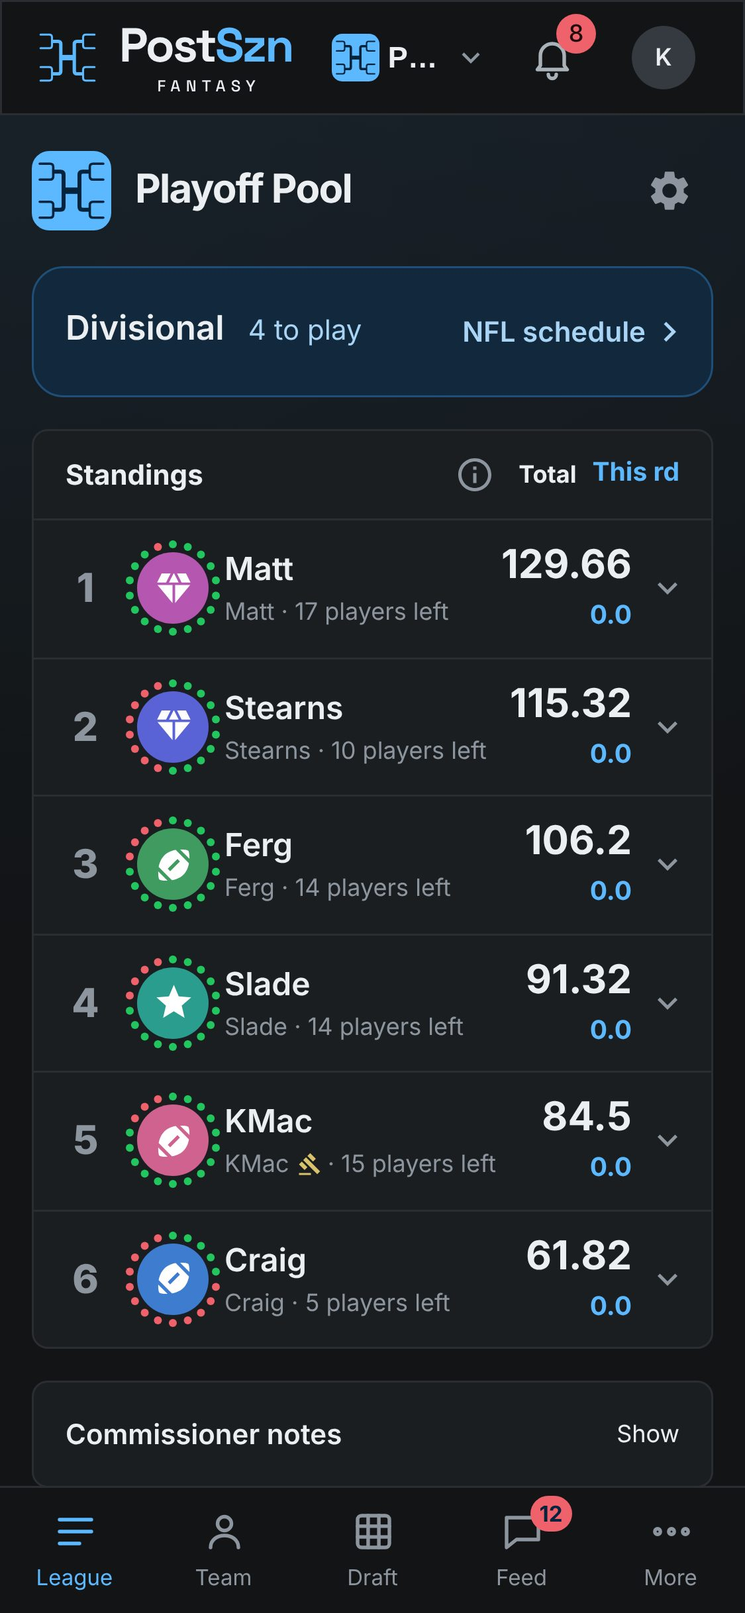
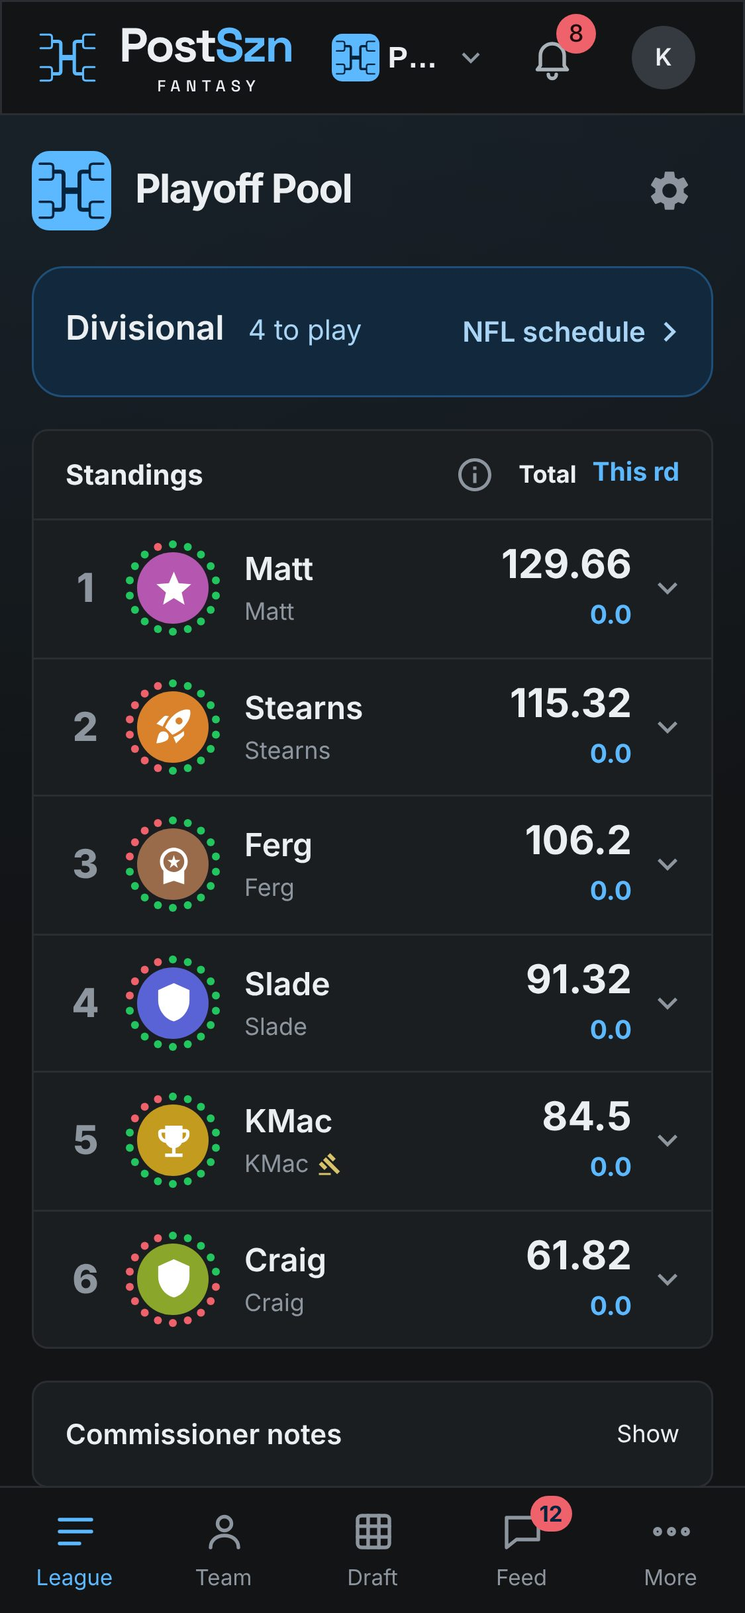
Space the ringed team picture off the name; drop the N players left words (#604) (#605)
Closes #604

Claude-Session: https://claude.ai/code/session_01Joaa4EG5M5w3aYu21ccTuD

diff --git a/frontend/src/components/league/Standings.tsx b/frontend/src/components/league/Standings.tsx
@@ -27,18 +27,14 @@ import { roundCard } from "../share/shareCards";
 import StatusBreakdownTrigger from "../team/StatusBreakdown";
 import StatusRing from "../team/StatusRing";
 import RankCell from "./RankCell";
-import { formatPoints, isOpenSpot, ROUNDS, rankLabel, rowDetail, tieNote } from "./standingsView";
+import { formatPoints, isOpenSpot, ROUNDS, rankLabel, rowOwner, tieNote } from "./standingsView";
 
-const RowDetail = ({ row, live }: { row: StandingsRow; live: boolean }) => {
-  const { owner, rest } = rowDetail(row, live);
-  return (
-    <>
-      {owner}
-      {row.isCommissioner && <CommissionerMark />}
-      {rest && ` · ${rest}`}
-    </>
-  );
-};
+const RowDetail = ({ row }: { row: StandingsRow }) => (
+  <>
+    {rowOwner(row)}
+    {row.isCommissioner && <CommissionerMark />}
+  </>
+);
 
 /**
  * The team picture ringed by one dot per rostered player (the Team page's ring), with a red wash
@@ -151,7 +147,7 @@ const PhoneRow = ({
           <RankCell label={rankLabel(rows, index)} note={note} color={color ?? tokens.muted} />
         </Box>
         {/* Beside the expand button, not inside it: the picture has its own tap. */}
-        <Box sx={{ display: "flex", alignItems: "center" }}>
+        <Box sx={{ display: "flex", alignItems: "center", mr: 1.25 }}>
           <RowAvatar row={row} live={!finished} size={36} />
         </Box>
         <Box
@@ -181,7 +177,7 @@ const PhoneRow = ({
               {row.teamName}
             </Typography>
             <Typography variant="caption" component="div" sx={{ color: color ?? "text.secondary" }}>
-              <RowDetail row={row} live={!finished} />
+              <RowDetail row={row} />
             </Typography>
           </Box>
           <Box sx={{ textAlign: "right", flexShrink: 0 }}>
@@ -283,7 +279,7 @@ const DesktopTable = ({ rows, round, finished }: Omit<RowProps, "row" | "index">
                 />
               </TableCell>
               <TableCell>
-                <Box sx={{ display: "flex", alignItems: "center", gap: 1.25 }}>
+                <Box sx={{ display: "flex", alignItems: "center", gap: 2 }}>
                   <RowAvatar row={row} live={!finished} size={32} />
                   <Box
                     component={Link}
@@ -292,7 +288,7 @@ const DesktopTable = ({ rows, round, finished }: Omit<RowProps, "row" | "index">
                   >
                     <Typography sx={{ fontWeight: 600, color }}>{row.teamName}</Typography>
                     <Typography variant="caption" sx={{ color: color ?? "text.secondary" }}>
-                      <RowDetail row={row} live={!finished} />
+                      <RowDetail row={row} />
                     </Typography>
                   </Box>
                 </Box>
@@ -376,7 +372,7 @@ const SlotList = ({ rows, season }: { rows: StandingsRow[]; season: SeasonOvervi
                   {open ? "Open slot" : row.teamName}
                 </Typography>
                 <Typography variant="caption" color="text.secondary" noWrap component="div">
-                  <RowDetail row={row} live={false} />
+                  <RowDetail row={row} />
                 </Typography>
               </Box>
               {scheduled && (

diff --git a/frontend/src/components/team/TeamHeader.tsx b/frontend/src/components/team/TeamHeader.tsx
@@ -5,7 +5,6 @@ import PictureAvatar from "../common/PictureAvatar";
 import { formatPoints } from "../league/standingsView";
 import CogButton from "../settings/CogButton";
 import type { RosterStatus } from "./lineupView";
-import PlayersLeft from "./PlayersLeft";
 import StatusBreakdownTrigger from "./StatusBreakdown";
 import StatusRing from "./StatusRing";
 
@@ -24,8 +23,8 @@ interface Props {
 
 /**
  * The Team page header: the picture ringed by one dot per player (red wash when nobody is left),
- * the name with the settings cog, the owner line ending in "10 players left", and the total. A tap on the picture or on the
- * "10 players left" text opens the breakdown by status.
+ * the name with the settings cog, the owner line and the total. A tap on the picture opens the
+ * breakdown by status.
  */
 const TeamHeader = ({
   name,
@@ -36,7 +35,7 @@ const TeamHeader = ({
   status,
   onOpenSettings,
 }: Props) => (
-  <Box sx={{ display: "flex", justifyContent: "space-between", alignItems: "center", gap: 1 }}>
+  <Box sx={{ display: "flex", justifyContent: "space-between", alignItems: "center", gap: 1.75 }}>
     <StatusBreakdownTrigger counts={status?.counts}>
       <StatusRing counts={status?.counts} size={AVATAR}>
         <PictureAvatar url={avatarUrl} generated={picture} name={name} size={AVATAR} />
@@ -67,12 +66,6 @@ const TeamHeader = ({
         }}
       >
         {ownerLine}
-        {status && (
-          <>
-            <span aria-hidden>·</span>
-            <PlayersLeft status={status} />
-          </>
-        )}
       </Typography>
     </Box>
     {total !== undefined && (

diff --git a/frontend/src/components/league/Standings.test.tsx b/frontend/src/components/league/Standings.test.tsx
@@ -71,7 +71,7 @@ describe("Standings", () => {
     expect(within(items[0] as HTMLElement).getByText("Team 1")).toBeInTheDocument();
     expect(within(items[0] as HTMLElement).getByText("84.2")).toBeInTheDocument();
     expect(within(items[0] as HTMLElement).getByText("12.6")).toBeInTheDocument();
-    expect(items[1]?.textContent).toContain("owner2, commissioner · 6 players left");
+    expect(items[1]?.textContent).toContain("owner2, commissioner");
     expect(items[1]?.textContent).not.toContain("live");
   });
 
@@ -85,7 +85,7 @@ describe("Standings", () => {
       }),
     ).toBeInTheDocument();
     expect(within(items[0] as HTMLElement).queryByTestId("out-wash")).toBeNull();
-    expect((items[0] as HTMLElement).textContent).toContain("13 players left");
+    expect((items[0] as HTMLElement).textContent).not.toContain("players left"); // on the tap only
     // No roster status: no ring, no extra button beyond the row's own expand control.
     expect(within(items[1] as HTMLElement).getAllByRole("button")).toHaveLength(1);
   });
@@ -110,7 +110,6 @@ describe("Standings", () => {
     show({ ...live, teams: [row(1, 1, { rosterStatus: dots })] });
     const item = within(phoneList()).getAllByRole("listitem")[0] as HTMLElement;
     expect(within(item).getByTestId("out-wash")).toBeInTheDocument();
-    expect(item.textContent).toContain("0 players left");
   });
 
   it("leaves the ring out of a finished season's table", () => {

diff --git a/frontend/src/components/league/standingsView.ts b/frontend/src/components/league/standingsView.ts
@@ -1,5 +1,4 @@
 import type { Standings, StandingsRow } from "../../api/types";
-import { playersLeftText, rosterLeft } from "../team/statusStyle";
 
 /** "T2" when another team shares the rank, so a shared title is never read as a win. */
 export const rankLabel = (rows: StandingsRow[], index: number): string => {
@@ -36,16 +35,8 @@ export const ROUNDS = [
   { key: "superBowl", label: "Super Bowl", short: "Super Bowl" },
 ] as const;
 
-/**
- * The owner, then the rest of the detail line ("10 players left") once a round is on. The count
- * comes from the dots' own tally when there is one, so the two never disagree in the Super Bowl.
- */
-export const rowDetail = (row: StandingsRow, live: boolean): { owner: string; rest: string } => ({
-  owner: row.owner ?? "Waiting for a player",
-  rest: live
-    ? playersLeftText(row.rosterStatus ? rosterLeft(row.rosterStatus) : row.playersLeft)
-    : "",
-});
+/** Who owns the team; the players-left count lives on the picture's breakdown, not in the row. */
+export const rowOwner = (row: StandingsRow): string => row.owner ?? "Waiting for a player";
 
 /**
  * The round's games by state, leaving out any that is empty: "5 live · 2 final · 1 to play", or

diff --git a/frontend/src/components/league/standingsView.test.ts b/frontend/src/components/league/standingsView.test.ts
@@ -5,7 +5,7 @@ import {
   gamesSummary,
   isOpenSpot,
   rankLabel,
-  rowDetail,
+  rowOwner,
   tieNote,
 } from "./standingsView";
 
@@ -84,24 +84,10 @@ describe("formatPoints", () => {
   });
 });
 
-describe("rowDetail", () => {
-  const lead = row(1, 1, {
-    owner: "Dave",
-    isCommissioner: true,
-    playersLeft: 5,
-    progress: { finished: 0, live: 3, toPlay: 1, notPlaying: 5 },
-  });
-
-  it("splits the owner from players left", () => {
-    expect(rowDetail(lead, true)).toEqual({ owner: "Dave", rest: "5 players left" });
-  });
-
-  it("stops at the owner once the season is over", () => {
-    expect(rowDetail(lead, false)).toEqual({ owner: "Dave", rest: "" });
-  });
-
-  it("says an open slot is waiting", () => {
-    expect(rowDetail(row(2, 0, { owner: null }), false).owner).toBe("Waiting for a player");
+describe("rowOwner", () => {
+  it("names the owner, or that the slot is waiting for a player", () => {
+    expect(rowOwner(row(1, 1, { owner: "Dave" }))).toBe("Dave");
+    expect(rowOwner(row(2, 0, { owner: null }))).toBe("Waiting for a player");
   });
 });
 

diff --git a/AGENTS.md b/AGENTS.md
@@ -250,11 +250,11 @@ PostSznFantasy/
         │   ├── feed/           # Feed pieces: `feedView.ts` (timeline rows, "New" divider, event wording), FeedEventRow, MessageRow (a message has no visible buttons: long press, right-click, Enter on the bubble or the "more" button open `MessageActionMenu`; reaction chips, reply quote, "edited", bold @names), MessageActionMenu (reaction row: quick emoji, the add-reaction control that opens the `emoji.ts` grid, divider, trash to the delete confirmation; then Reply and Edit), Composer (Enter sends with a mouse only; reply and edit bar; @ autocomplete from `mentions.ts`), GifPicker, DeleteMessageDialog
         │   ├── layout/         # AppShell (header + bottom tabs on phones / left rail from md up), NavBar (header: logo, switcher, `InboxBell` (unread count, opens `InboxSheet`), the avatar that opens `ProfileSheet`), Brand, LeagueSwitcher, BottomTabBar, LeagueRail, leagueTabs (League, Team, Draft, Feed, More), CountBadge (the Feed tab's unseen number, 99+ cap)
         │   ├── draft/          # DraftClockBar + clockText (the sticky bar; on my turn the whole bar takes the accent fill and pulses, #465; a pill says "On deck" / "N picks away" until my next pick, from `pickOrder.ts`, #468), CommissionerStrip (randomize, which then opens `LotteryReveal`, #403: the new order revealed last pick first with Skip, skipped for reduced motion and the e2e build; edit order, change date, start, pause/resume/undo/force pick), DraftOrderEditor + orderMoves (up/down, saved as one order change), DraftSetupDialogs (date as a Sunday-first month calendar `DraftCalendar` + `calendarMonth.ts` plus a time field, in the viewer's time zone; validated seconds per pick, type, timeout), ConfirmDraftAction + `preflight.ts` (the confirmations for Start, Undo and Auto-pick now), AssignPickDialog (tap a board slot, choose a player, confirm), DraftBoard (compact cells: last name, position, NFL team, pick number, a pick-source icon from `PickSourceBadge` with a legend of the marks present; tap a cell for the full pick in a sheet, worded by `pickSource.ts`, which carries the commissioner's "Assign pick" button in a live draft; reserved cells), `pickSource.ts` (pick-source wording for the sheet, toast and `DraftAnnouncer`), RosterView + rosterSlots (my picks in the league's slots), QueuePanel (a Draft button per row with the same two-tap confirm as the Players list, `useConfirmedPick`), PreDraftNotice
-        │   ├── league/         # AnnouncementCard + AnnouncementSheet (#403: the pinned announcement at the top of the current season's home, post/edit/remove for commissioners, a push switch per posting), RoundWinToast + roundWin.ts (the "You won the round" toast: round over, my team alone on top; once per device, season and round), PhaseBlock (top block by phase), Standings (phone rows that expand in place, desktop round columns, pre-draft team slots), RankCell (tie tooltip), LeagueNotes (collapsible card), InviteLinkButton (copy and share the invite link), phase.ts / countdown.ts / standingsView.ts helpers, ArchivedBanner (tops every page of a finished season from SeasonLayout), LiveIndicator ("5 live · 2 final · 1 to play · updated 20s ago" in the playoff phase block while a game is live (`gamesSummary` in `standingsView.ts` names each state that has games and leaves empty ones out, "All final" once every game is over), a link to the NFL schedule's live scores unless its kill switch is off, the games line moving there from beside the round; no counts of my own players; `useStandings` polls only then, otherwise on focus), Standings rows read "owner · 18 players left" with the team picture ringed by the same dots (`StatusRing`, from `rosterStatus`, which also gives the count; red wash when nobody is left; a tap on the picture opens the same breakdown without expanding the row; not in a finished season) and this round's score is accent-colored text, no pill, ArchivedNotice (shown where a finished season hides write controls; write controls follow the season's `canEdit` / `canCommission` from `useSeasonContext`), LeagueDeletedNotice (the "deleted by a commissioner" page)
+        │   ├── league/         # AnnouncementCard + AnnouncementSheet (#403: the pinned announcement at the top of the current season's home, post/edit/remove for commissioners, a push switch per posting), RoundWinToast + roundWin.ts (the "You won the round" toast: round over, my team alone on top; once per device, season and round), PhaseBlock (top block by phase), Standings (phone rows that expand in place, desktop round columns, pre-draft team slots), RankCell (tie tooltip), LeagueNotes (collapsible card), InviteLinkButton (copy and share the invite link), phase.ts / countdown.ts / standingsView.ts helpers, ArchivedBanner (tops every page of a finished season from SeasonLayout), LiveIndicator ("5 live · 2 final · 1 to play · updated 20s ago" in the playoff phase block while a game is live (`gamesSummary` in `standingsView.ts` names each state that has games and leaves empty ones out, "All final" once every game is over), a link to the NFL schedule's live scores unless its kill switch is off, the games line moving there from beside the round; no counts of my own players; `useStandings` polls only then, otherwise on focus), Standings rows read just the owner under the team name, with the team picture ringed by the same dots (`StatusRing`, from `rosterStatus`; red wash when nobody is left; a tap on the picture opens the same breakdown without expanding the row; not in a finished season) and this round's score is accent-colored text, no pill, ArchivedNotice (shown where a finished season hides write controls; write controls follow the season's `canEdit` / `canCommission` from `useSeasonContext`), LeagueDeletedNotice (the "deleted by a commissioner" page)
         │   ├── players/        # PlayersView (the league player list: one row of search (takes the whole row while it has focus), a Filters button and a Sort dropdown (`FilterMenu` with `icon`); Filters shows or hides the filter rows until tapped again, with a badge counting filters off their starting choice: positions on one row, then NFL / Fantasy and Status (All / Available / Drafted, Undrafted after the draft); with a `draft` prop it adds Draft and queue buttons and Status starts on Available; e2e picks a position through `choosePosition` in `e2e/support/draft.ts`), FilterMenu, playerRows.ts (pool + season stats rows, stat line, filters, sorts)
         │   ├── share/          # Shareable cards (#395): `shareCards.ts` (pure card models from the recap, standings and draft: champion with the top 3, a finished round's top 3, the draft board (teams as columns, rounds as rows, position colours, sized by `cardSize`); display and team names only, never an email; none until the Super Bowl is final, the round is over or the draft is complete), `renderCard.ts` (draws a PNG (1080x1350 for the podium cards, the draft board sized to its teams and rounds) on a canvas with the `palettes` hex of the current theme, since CSS variables don't reach a canvas), `ShareCardButton` (Share champion on the recap, Share round result under the standings of an open season, Share draft board on the finished Draft tab). Client-side only, so nothing exists for a deleted league (its pages answer 404)
         │   ├── recap/          # SeasonRecap: champion card, Playoff MVP and champion's MVP, awards by position, start the next season (gated by `canStartSeason`)
-        │   ├── team/           # (compact layout, #586: `PlayerRow` is a fixed 54px high, the round strip 48px; keep the whole starting lineup on one phone screenshot) RoundStrip, LineupRound (Starters / Bench / Eliminated groups, always shown: before the draft the same groups sit empty, with team QB / K "?" on those slots), TeamHeader (picture ringed by `StatusRing`, name, cog, total, and "10 players left" at the end of the owner line (`PlayersLeft`); a tap on the picture with its ring (`StatusBreakdownTrigger`, a button beside, never inside, a row's own link or expand control) or on "10 players left" opens `StatusBreakdownList`: one line per status with its count, zeros included, in the order eliminated, live, yet to play, advanced (the status is called "yet to play" everywhere); `StatusRing` draws one dot per rostered player around the picture, clockwise from the top: green advanced, blue live, grey to play, red eliminated, and a light red wash over the picture when nobody is left (never with a player in the Super Bowl, whoever wins it); the dots take no height; `rosterStatus` / `playerStatus` in `lineupView.ts` classify the whole roster in the latest round whose first kickoff has passed, so a win stays green until the next round's first kickoff; `statusStyle.ts` holds the colours and wording), PlayerRow (live rows take `tokens.live`, the accent blue; the detail line is the quarter and clock, "Q2 6:56 · stats"; once his game is final it leads with a green ADVANCES or red ELIMINATED outlined pill (`OutcomePill`, from `gameOutcome` in `lineupView.ts`; CHAMPION for the Super Bowl's winner; nothing without a score), then "27-20 · stats", and a loser's name gets a red strike-through (a team that lost is out for the playoffs); the whole row opens the player sheet; the score is not its own button), PlayerSheet (the one place for a player, built from `PlayerStats.tsx` (`PlayerDrawer`, `ThisGame`, `Postseason`, `RegularSeason`, shared with the schedule's `GamePlayerSheet`), in titled sections: This game (the round shown, once it has kicked off: stat line, one line per scoring stat from the lineup player's `pointsBreakdown`, the round multiplier when not 1, Fantasy points), Postseason (`postseasonLines`: one line with points per earlier round he played, only once one is final), Regular season; then tap-only moves through `MoveList` (shared with `SlotPickerSheet`): the moves anybody may make up top, a commissioner's overrides folded under a closed "Commissioner actions (N)" caret at the bottom, still confirmed by `OverrideDialog`; reusable from the Players list and draft room with a lineup), `moves.ts` (swap-aware move options: a bench player swaps with or fills a starter slot; a starter goes to the bench, swaps with an eligible bench player, moves between his position's slot and FLEX (any RB, WR or TE: trading places when the other starter can play his slot, else sending that one to an open bench spot, offered only when one is open), or moves to an empty starter slot; `slotFillOptions` for an empty slot), SlotPickerSheet (an empty starter row opens it: the bench players who can fill that slot), `lineupView.ts` (row states, subtotals), `seasonLines.ts`, OverrideDialog (commissioner confirm)
+        │   ├── team/           # (compact layout, #586: `PlayerRow` is a fixed 54px high, the round strip 48px; keep the whole starting lineup on one phone screenshot) RoundStrip, LineupRound (Starters / Bench / Eliminated groups, always shown: before the draft the same groups sit empty, with team QB / K "?" on those slots), TeamHeader (picture ringed by `StatusRing`, name, cog, owner line, total; no "players left" words, a tap on the picture with its ring (`StatusBreakdownTrigger`, a button beside, never inside, a row's own link or expand control; its accessible name still says "10 players left: ...") opens `StatusBreakdownList`: one line per status with its count, zeros included, in the order eliminated, live, yet to play, advanced (the status is called "yet to play" everywhere); `StatusRing` draws one dot per rostered player around the picture, clockwise from the top: green advanced, blue live, grey to play, red eliminated, and a light red wash over the picture when nobody is left (never with a player in the Super Bowl, whoever wins it); the dots take no height; `rosterStatus` / `playerStatus` in `lineupView.ts` classify the whole roster in the latest round whose first kickoff has passed, so a win stays green until the next round's first kickoff; `statusStyle.ts` holds the colours and wording), PlayerRow (live rows take `tokens.live`, the accent blue; the detail line is the quarter and clock, "Q2 6:56 · stats"; once his game is final it leads with a green ADVANCES or red ELIMINATED outlined pill (`OutcomePill`, from `gameOutcome` in `lineupView.ts`; CHAMPION for the Super Bowl's winner; nothing without a score), then "27-20 · stats", and a loser's name gets a red strike-through (a team that lost is out for the playoffs); the whole row opens the player sheet; the score is not its own button), PlayerSheet (the one place for a player, built from `PlayerStats.tsx` (`PlayerDrawer`, `ThisGame`, `Postseason`, `RegularSeason`, shared with the schedule's `GamePlayerSheet`), in titled sections: This game (the round shown, once it has kicked off: stat line, one line per scoring stat from the lineup player's `pointsBreakdown`, the round multiplier when not 1, Fantasy points), Postseason (`postseasonLines`: one line with points per earlier round he played, only once one is final), Regular season; then tap-only moves through `MoveList` (shared with `SlotPickerSheet`): the moves anybody may make up top, a commissioner's overrides folded under a closed "Commissioner actions (N)" caret at the bottom, still confirmed by `OverrideDialog`; reusable from the Players list and draft room with a lineup), `moves.ts` (swap-aware move options: a bench player swaps with or fills a starter slot; a starter goes to the bench, swaps with an eligible bench player, moves between his position's slot and FLEX (any RB, WR or TE: trading places when the other starter can play his slot, else sending that one to an open bench spot, offered only when one is open), or moves to an empty starter slot; `slotFillOptions` for an empty slot), SlotPickerSheet (an empty starter row opens it: the bench players who can fill that slot), `lineupView.ts` (row states, subtotals), `seasonLines.ts`, OverrideDialog (commissioner confirm)
         │   ├── avatar/         # AvatarSheet (choose, drag and zoom inside a circle, save a 512 px JPEG; remove) and `crop.ts` (crop math, 5 MB source limit)
         │   ├── support/        # FeedbackSheet (More, Send feedback: optional rating, what was good, what was bad), ReportProblemSheet (More, Report a problem: message, images, diagnostics preview) and `images.ts` (5 images, 5 MB each, 15 MB total, the API's wording)
         │   └── settings/       # AccountSheet (the account center, opened from the profile sheet's Account row: change email through `changeEmail` (Supabase `updateUser`, confirmation link, no change until followed), sign-in methods, time zone and clock (`TimeFormatSheet`), notification devices with Remove, Download my data, Sign out everywhere (`signOutEverywhere`: removes every push device, then Supabase global sign-out)), ProfileSheet (profile settings from the avatar: display name, Account, theme, notifications, sign out, and for the site admin only (`utils/admin.ts` `isAdminHint`, `VITE_ADMIN_SUPABASE_UIDS`) an Admin section, `AdminSection`, with Refresh live stats: one live-poll cycle via `POST /api/admin/refresh/live`), TeamSettingsSheet (team name, owner; opened from the Team page cog), CogButton (a cog that links or opens a sheet), NotificationsToggle (the push switch in the profile sheet; while on, the switch per kind and Quiet hours fold under a closed "Choose which alerts · N of M on" caret, which sends the browser's time zone, and the iPhone and Android tips); SettingsCard/SettingsRow (row primitives), SettingsSheet (bottom sheet on phones, dialog on desktop), EditTextSheet (one-field edits), MembersSheet + members.ts (commissioner toggle per member; the only commissioner's toggle is locked; removal confirms; `readOnly` for members), InviteSheet, NotificationsRow (placeholder until push ships), SettingsGroup (accordion row), SettingsSection/ScoringForm/RosterForm generated from src/settings schemas (a closed block shows its summary, an open one only its rows; the summary and the read-only form list each scored field as a grey label with its points in bold on the right, `summaryLines`, never "label value" run together; a field empties when tapped and gets its old value back if left blank (a position limit selects instead, since blank means No limit); a row off its default (`defaults` prop: `useScoringDefaults`, `ROSTER_DEFAULTS` in `settings/rosterGroups.ts`) shows a reset arrow; each row's ⓘ is a fixed sentence from `SETTING_FIELD_HELP` in `content/rules.ts`, never a live calculation; a field's `subheading` opens a titled part, e.g. Special teams inside Defense / Special Teams; a locked or read-only form renders plain text via `ReadOnlyValue`, never a disabled input; a locked roster is a one-line-per-group summary with its own "Locked since the draft started." note); DeleteLeagueDialog (three-step confirm: warning with season count, type the exact name, final "Are you sure?")

diff --git a/docs/ui/README.md b/docs/ui/README.md
@@ -83,7 +83,7 @@ Phase block:
 | Playoffs | Current round; while a game is on, one row under it reads "5 live · 2 final · 1 to play · updated 4s ago" (each state with games, empty ones left out; "All final" when the round is over), otherwise "N final" or "No games yet" beside the round. No counts of my own players here (the Team page has them) |
 | Finished | Champion card, then the awards shown directly, then final standings pushed down |
 
-Standings header names the two figures: **Total** and **This rd** (the latter in the accent color, no outline). Rows: rank, team and owner ("commissioner" marked), **total points** (prominent), current round points in the current-round color with no pill around them (no "+"), "N players left", tie marker. Tapping a row expands it (one at a time) to a four-round points table (current round outlined, future rounds a dash) and an **Open team page** button. Before the draft every team slot shows with its owner or "Open slot, waiting for a player"; there is no per-row invite action because the invite block above is the one obvious place. While the draft is only scheduled, every team shows 0.0 and shares rank 1.
+Standings header names the two figures: **Total** and **This rd** (the latter in the accent color, no outline). Rows: rank, team and owner ("commissioner" marked), **total points** (prominent), current round points in the current-round color with no pill around them (no "+"), tie marker. Tapping a row expands it (one at a time) to a four-round points table (current round outlined, future rounds a dash) and an **Open team page** button. Before the draft every team slot shows with its owner or "Open slot, waiting for a player"; there is no per-row invite action because the invite block above is the one obvious place. While the draft is only scheduled, every team shows 0.0 and shares rank 1.
 
 Finished season, top to bottom:
 
@@ -111,7 +111,7 @@ The old overall "best draft value", "biggest bust", "best bench" and "best game"
 - Before kickoff the stat line is the **day and time** of the game ("Sun 6:30 pm"), never the word "kickoff". The same wording is used on the player sheet.
 - **Eliminated** lists only players whose NFL team went out in the **previous** round, so they were not eligible for Starters or Bench this round. Each shows "Eliminated in Divisional" (or whichever round). A player eliminated earlier does not reappear. If the Ravens lose in this round, Zay Flowers still sits in Starters or Bench for this round and moves to Eliminated next round.
 - No separate team feed.
-- Players left is a ring of dots around the team picture, one per rostered player, clockwise from the top (the dots take no height). Colours: green advanced (his team won the round, or a bye), blue live, grey to play, red eliminated, in that order, so red fills in from the end. They describe the latest round whose first kickoff has passed, so a win stays green until the next round's first kickoff. A team with nobody left gets a light red wash over its picture, ringed by red dots. **The Super Bowl never eliminates anyone**: both finalists' players count as still in whoever wins, so a team with a player in the Super Bowl never turns red; only a team that ran out of players before it does. The Team page header says "10 players left" ("1 player left") at the end of the owner line, . **Tapping the picture with its ring** (or the "10 players left" text) opens a small breakdown, one line per status with its count, zeros included: eliminated, live, yet to play, advanced. League standings rows ring each team's picture the same way (the picture is its own tap target beside the row's expand button, so tapping it does not expand the row; the breakdown opens there too) from the standings' `rosterStatus` and read "owner · 10 players left"; both are left out of a finished season's table.
+- Players left is a ring of dots around the team picture, one per rostered player, clockwise from the top (the dots take no height). Colours: green advanced (his team won the round, or a bye), blue live, grey to play, red eliminated, in that order, so red fills in from the end. They describe the latest round whose first kickoff has passed, so a win stays green until the next round's first kickoff. A team with nobody left gets a light red wash over its picture, ringed by red dots. **The Super Bowl never eliminates anyone**: both finalists' players count as still in whoever wins, so a team with a player in the Super Bowl never turns red; only a team that ran out of players before it does. The Team page header says "10 players left" ("1 player left") at the end of the owner line, . **Tapping the picture with its ring** opens a small breakdown, one line per status with its count, zeros included: eliminated, live, yet to play, advanced. League standings rows ring each team's picture the same way (the picture is its own tap target beside the row's expand button, so tapping it does not expand the row; the breakdown opens there too) from the standings' `rosterStatus` and read just the owner; both are left out of a finished season's table.
 - Position colours (draft board, player list chips, Team rows, share card): one muted hue each around the rainbow, QB violet, RB green, WR blue, TE yellow, K orange, DST teal; red is kept for eliminated.
 - A lineup row whose game is final leads its detail line with an outlined pill, green **ADVANCES** or red **ELIMINATED** (the Super Bowl's winner is **CHAMPION**), then the score and stat line ("ELIMINATED 20-27 · 4 rec, 51 yds"); the loser's name is struck through in red. No row is tinted. Chosen from a set of options the owner compared (option 3 with the strike).
 - The player sheet reads top to bottom: **This game** (the round shown, once it has kicked off, with the points breakdown), **Postseason** (each earlier round he played, stat line and points; only once one is final), **Regular season**.
